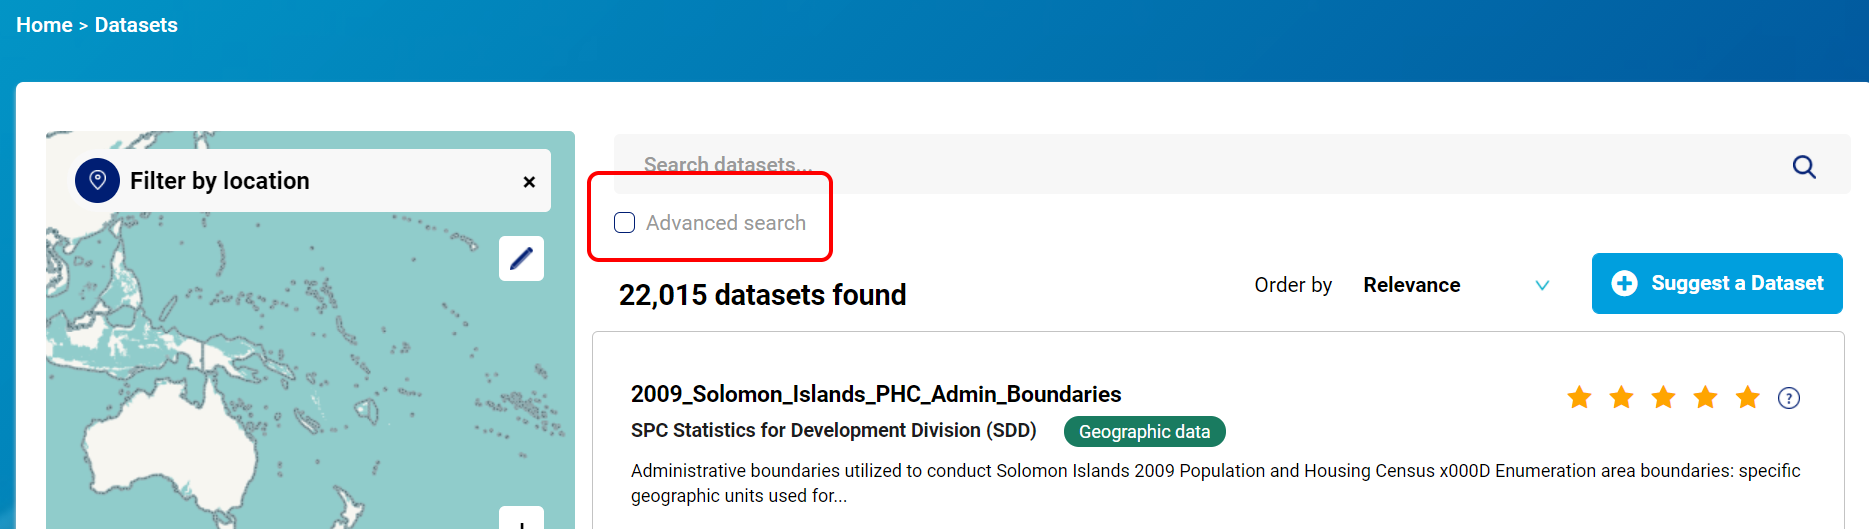
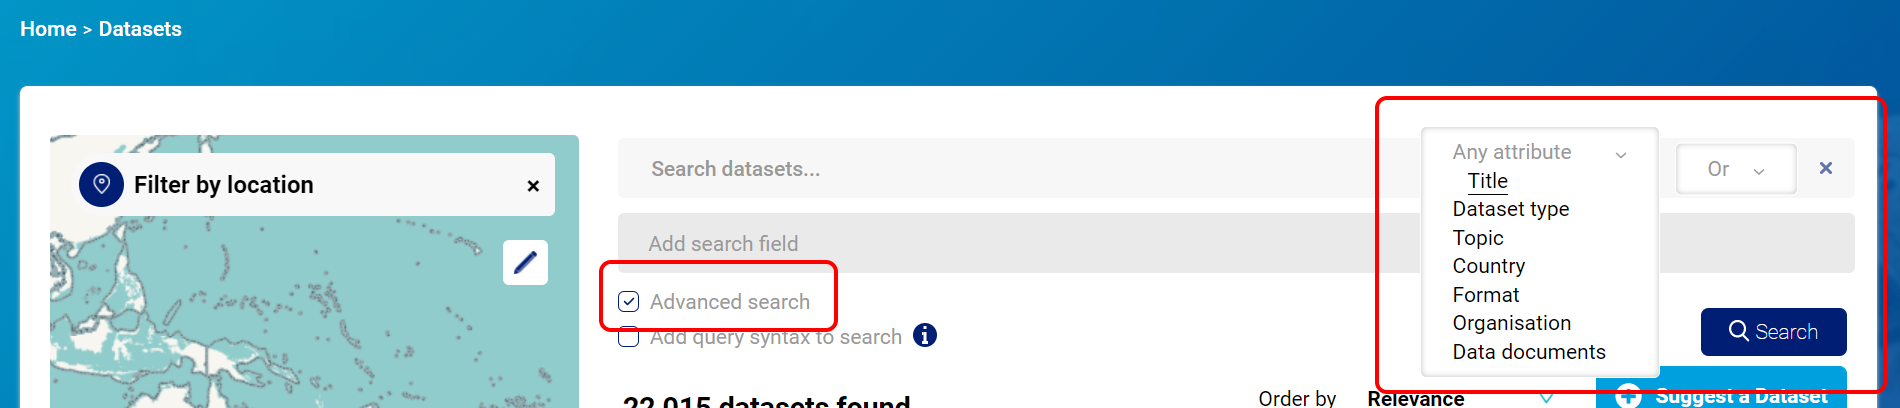
GitBook: [master] 2 pages and 4 assets modified

diff --git a/catalogue/advanced-search/solr-search.md b/catalogue/advanced-search/solr-search.md
@@ -10,9 +10,9 @@ By enabling the advanced search feature, you can take advantage of Solr's flexib
 You can add SOLR search syntax search enabling 'Advanced search' under the search bar, then checking the 'Add query syntax to search' check box.
 {% endhint %}
 
-![Enbaling advanced search](../../.gitbook/assets/image%20%2888%29.png)
+![Enbaling advanced search](../../.gitbook/assets/image%20%2889%29.png)
 
-![Enabling SOLR search](../../.gitbook/assets/image%20%2887%29.png)
+![Enabling SOLR search](../../.gitbook/assets/image%20%2888%29.png)
 
 ### Searching for keywords and search phrases
 

diff --git a/catalogue/advanced-search/README.md b/catalogue/advanced-search/README.md
@@ -4,5 +4,13 @@ description: Using the advanced search features on the PDH Data Catalogue.
 
 # Advanced Search
 
-## 
+## Use the advanced search
+
+{% hint style="info" %}
+Check the 'Advanced search' under the search bar to enable additional search filters and operators.
+{% endhint %}
+
+![](../../.gitbook/assets/image%20%2886%29.png)
+
+
 
